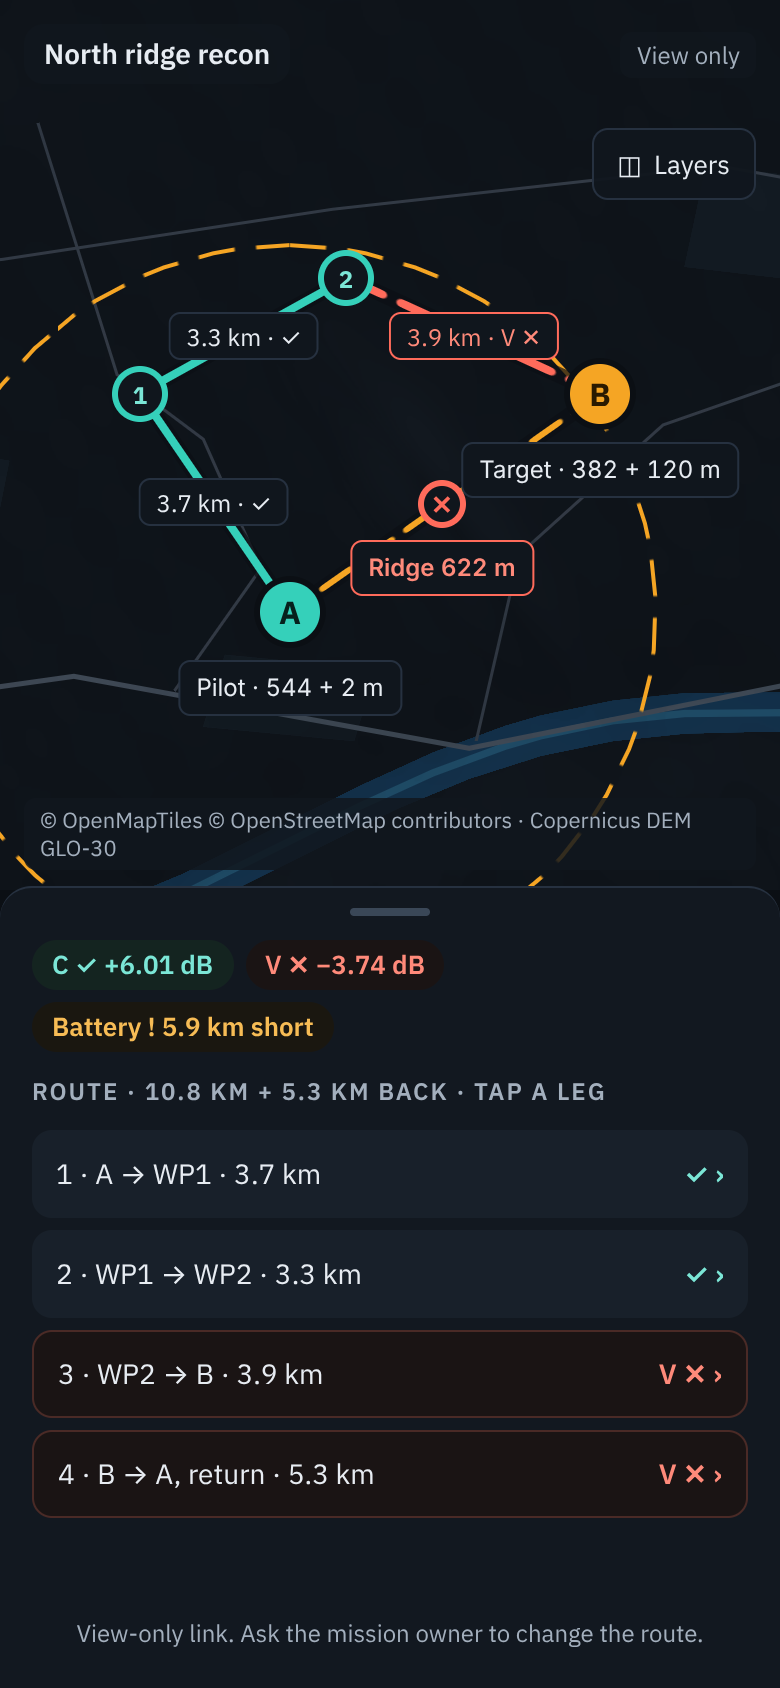
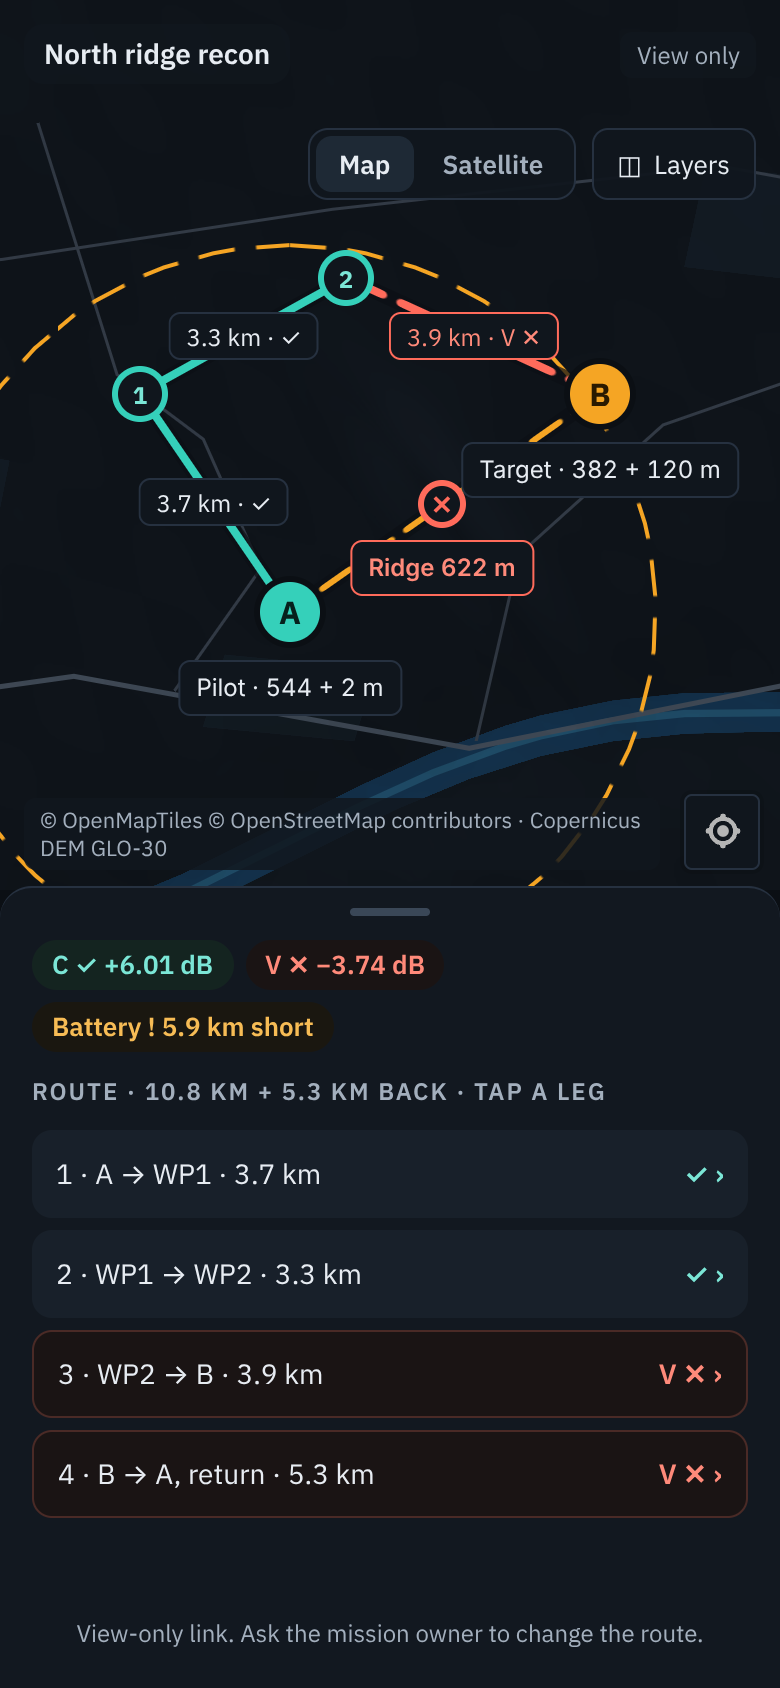
fix(web): keep map text clear of the control buttons and add Find my location (#53)
<!-- claude-projects-attribution: {"github_login":"Rufics"} -->
_Requested by **Yevhenii** · [project
thread](https://claude.ai/code/project/chan_01LHohLjDHMiGm5uYYte6Zvi?thread=cmsg_01LHohLjDHMiGm5uYYte6Zvi7hYcMQs8MJnc37MwT7ZCBF)_

Before: on a narrow map (for example an 800 px wide window, where the
map is about 420 px wide) the map attribution and the "Click the map to
add a point" hint ran under the zoom buttons in the bottom-right corner,
so text covered the buttons. There was no way to jump the map to where
the user is.

After: the attribution and the hint stop short of the button column and
wrap instead. A "Find my location" button sits above the zoom buttons;
it asks the browser for the position once, shows a location dot with the
accuracy circle, and moves the map there (zoom capped at 14). On phones
the button is shown on its own, without the zoom buttons.

How: a new `MapControls` class in the ui-kit builds the bottom-right
controls (MapLibre `NavigationControl` and `GeolocateControl`).
`rf-map-view` gets `zoomButtons` and `locateButton` inputs and exposes
`--rf-map-controls-reserve`, the width bottom-left overlays leave free.
The phone layout passes `zoomButtons=false` instead of hiding the whole
corner with a media query. The deploy guide notes that browsers offer
geolocation only over HTTPS or on localhost. `laptop-result.png` and
`phone-mission.png` are refreshed.

Checked: `npm test` (ui-kit 20 files, fpv-app 15 files, all green,
[…]

diff --git a/web/projects/ui-kit/src/lib/map/map-view.component.ts b/web/projects/ui-kit/src/lib/map/map-view.component.ts
@@ -8,15 +8,17 @@ import {
   inject,
   input,
   output,
+  untracked,
   viewChild,
 } from '@angular/core';
-import { addProtocol, Map as MlMap, NavigationControl } from 'maplibre-gl';
+import { addProtocol, Map as MlMap } from 'maplibre-gl';
 import { Protocol } from 'pmtiles';
 import { MapSourcesConfig } from '../models/api.models';
 import { LayerRegistry } from '../layers/layer-registry';
 import { SlotRegistry } from '../slots/slot-registry';
 import { LatLon } from '../tools/geo';
 import { MapContext } from './map-context';
+import { MapControls, MapControlsOptions } from './map-controls';
 
 let pmtilesRegistered = false;
 
@@ -34,6 +36,7 @@ export function ensurePmtilesProtocol(): void {
  */
 @Component({
   selector: 'rf-map-view',
+  host: { '[class.rf-map-view--controls]': 'hasControls()' },
   template: `
     <div #container class="rf-map-canvas" role="region" [attr.aria-label]="label()"></div>
     <ng-content />
@@ -42,10 +45,12 @@ export function ensurePmtilesProtocol(): void {
     }
   `,
   styles: `
-    :host { position: relative; display: block; overflow: hidden; background: var(--rf-map-land, #0E1319); }
+    :host { position: relative; display: block; overflow: hidden; background: var(--rf-map-land, #0E1319); --rf-map-controls-reserve: 12px; }
+    /* the corner buttons are 38 px wide with a 10 px margin; keep a 12 px gap to them */
+    :host(.rf-map-view--controls) { --rf-map-controls-reserve: 60px; }
     .rf-map-canvas { position: absolute; inset: 0; }
     .rf-map-attribution {
-      position: absolute; left: 12px; bottom: 10px; z-index: 2; max-width: calc(100% - 24px);
+      position: absolute; left: 12px; bottom: 10px; z-index: 2; max-width: calc(100% - 12px - var(--rf-map-controls-reserve));
       font-size: 11px; color: var(--rf-text-2); background: rgba(16, 22, 29, 0.85);
       padding: 4px 8px; border-radius: var(--rf-radius-sm); pointer-events: auto;
     }
@@ -56,6 +61,10 @@ export class MapViewComponent {
   readonly label = input('Map');
   readonly showAttribution = input(true);
   readonly interactive = input(true);
+  /** Zoom buttons in the corner (off on phones, which zoom with two fingers). */
+  readonly zoomButtons = input(true);
+  /** A "Find my location" button in the corner. */
+  readonly locateButton = input(true);
   readonly mapClick = output<LatLon>();
   readonly mapReady = output<MlMap>();
 
@@ -66,6 +75,13 @@ export class MapViewComponent {
   private readonly destroyRef = inject(DestroyRef);
   private map?: MlMap;
   private readonly slotLayerCleanups = new Map<string, () => void>();
+
+  private readonly controls = new MapControls();
+  private readonly controlOptions = computed<MapControlsOptions>(() => ({
+    zoom: this.interactive() && this.zoomButtons(),
+    locate: this.interactive() && this.locateButton(),
+  }));
+  protected readonly hasControls = computed(() => MapControls.any(this.controlOptions()));
 
   protected readonly attributionText = computed(() => {
     const parts = [...(this.config()?.attribution ?? ['© OpenStreetMap contributors', 'Copernicus DEM'])];
@@ -96,6 +112,12 @@ export class MapViewComponent {
         }
       }
     });
+    // corner buttons follow their inputs on a live map
+    effect(() => {
+      const options = this.controlOptions();
+      const map = this.map;
+      if (map) untracked(() => this.controls.apply(map, options));
+    });
     this.destroyRef.onDestroy(() => {
       this.layers.disconnect();
       this.ctx.map.set(null);
@@ -118,7 +140,7 @@ export class MapViewComponent {
       fadeDuration: 0,
     });
     map.touchZoomRotate.disableRotation();
-    if (this.interactive()) map.addControl(new NavigationControl({ showCompass: false }), 'bottom-right');
+    this.controls.apply(map, this.controlOptions());
     map.on('click', (e) => {
       const p = { lat: e.lngLat.lat, lon: e.lngLat.lng };
       this.ctx.emitClick(p);

diff --git a/web/projects/ui-kit/src/lib/map/map-controls.spec.ts b/web/projects/ui-kit/src/lib/map/map-controls.spec.ts
@@ -1,0 +1,79 @@
+import { GeolocateControl, NavigationControl } from 'maplibre-gl';
+import type { ControlPosition, IControl } from 'maplibre-gl';
+import { describe, expect, it } from 'vitest';
+import { MapControls } from './map-controls';
+
+/** Keeps the controls a map view puts in its corner, in the order MapLibre would add them. */
+class RecordingMap {
+  readonly added: { control: IControl; position?: ControlPosition }[] = [];
+  removed = 0;
+
+  addControl(control: IControl, position?: ControlPosition): this {
+    this.added.push({ control, position });
+    return this;
+  }
+
+  removeControl(control: IControl): this {
+    const i = this.added.findIndex((a) => a.control === control);
+    if (i >= 0) this.added.splice(i, 1);
+    this.removed++;
+    return this;
+  }
+
+  kinds(): string[] {
+    return this.added.map((a) => (a.control instanceof GeolocateControl ? 'locate' : 'zoom'));
+  }
+}
+
+describe('MapControls', () => {
+  it('adds the zoom buttons and the location button to the bottom-right corner', () => {
+    const map = new RecordingMap();
+    new MapControls().apply(map, { zoom: true, locate: true });
+    expect(map.added.map((a) => a.position)).toEqual(['bottom-right', 'bottom-right']);
+    expect(map.added[0].control).toBeInstanceOf(NavigationControl);
+    // added last, so MapLibre stacks it above the zoom buttons
+    expect(map.added[1].control).toBeInstanceOf(GeolocateControl);
+  });
+
+  it('leaves the zoom buttons out on phones but keeps the location button', () => {
+    const created = MapControls.create({ zoom: false, locate: true });
+    expect(created).toHaveLength(1);
+    expect(created[0]).toBeInstanceOf(GeolocateControl);
+    expect(MapControls.any({ zoom: false, locate: true })).toBe(true);
+  });
+
+  it('jumps to the user once, without following them', () => {
+    const [locate] = MapControls.create({ zoom: false, locate: true }) as GeolocateControl[];
+    expect(locate.options.trackUserLocation).toBe(false);
+    expect(locate.options.fitBoundsOptions?.maxZoom).toBe(MapControls.locateMaxZoom);
+  });
+
+  it('follows changed options on a live map and keeps the location button on top', () => {
+    const map = new RecordingMap();
+    const controls = new MapControls();
+    controls.apply(map, { zoom: false, locate: true });
+    controls.apply(map, { zoom: true, locate: true });
+    expect(map.kinds()).toEqual(['zoom', 'locate']);
+    controls.apply(map, { zoom: false, locate: true });
+    expect(map.kinds()).toEqual(['locate']);
+    controls.apply(map, { zoom: false, locate: false });
+    expect(map.kinds()).toEqual([]);
+  });
+
+  it('leaves the corner alone when the options did not change', () => {
+    const map = new RecordingMap();
+    const controls = new MapControls();
+    controls.apply(map, { zoom: true, locate: true });
+    const first = map.added.map((a) => a.control);
+    controls.apply(map, { zoom: true, locate: true });
+    expect(map.removed).toBe(0);
+    expect(map.added.map((a) => a.control)).toEqual(first);
+  });
+
+  it('reports an empty corner when no buttons are wanted', () => {
+    const map = new RecordingMap();
+    new MapControls().apply(map, { zoom: false, locate: false });
+    expect(map.added).toEqual([]);
+    expect(MapControls.any({ zoom: false, locate: false })).toBe(false);
+  });
+});

diff --git a/web/projects/ui-kit/src/lib/map/map-controls.ts b/web/projects/ui-kit/src/lib/map/map-controls.ts
@@ -1,0 +1,69 @@
+import { GeolocateControl, NavigationControl } from 'maplibre-gl';
+import type { ControlPosition, IControl } from 'maplibre-gl';
+
+/** Which of the corner buttons a map view shows. */
+export interface MapControlsOptions {
+  /** Zoom in/out buttons (phones zoom with two fingers instead). */
+  zoom: boolean;
+  /** "Find my location": asks the browser for the position once and moves the map there. */
+  locate: boolean;
+}
+
+/** The part of a MapLibre map the controls are added to and removed from. */
+export interface ControlHost {
+  addControl(control: IControl, position?: ControlPosition): unknown;
+  removeControl(control: IControl): unknown;
+}
+
+/**
+ * The buttons in the bottom-right corner of one map view. They stack upwards from the corner, so
+ * the location button sits above the zoom buttons. Bottom-left overlays (attribution, hints) keep
+ * `--rf-map-controls-reserve` free on the right to stay clear of this column.
+ */
+export class MapControls {
+  static readonly position: ControlPosition = 'bottom-right';
+  /** How close "Find my location" zooms in, so the pilot still sees the area around them. */
+  static readonly locateMaxZoom = 14;
+
+  private installed: IControl[] = [];
+  private shown: MapControlsOptions = { zoom: false, locate: false };
+
+  /** True when the options put at least one button in the corner. */
+  static any(options: MapControlsOptions): boolean {
+    return options.zoom || options.locate;
+  }
+
+  /** The controls in the order they are added; MapLibre stacks later bottom controls above. */
+  static create(options: MapControlsOptions): IControl[] {
+    const controls: IControl[] = [];
+    if (options.zoom) controls.push(new NavigationControl({ showCompass: false }));
+    if (options.locate) controls.push(MapControls.createLocate());
+    return controls;
+  }
+
+  /**
+   * Show exactly the buttons the options ask for. Changed options replace the whole column, so
+   * the location button stays above the zoom buttons whichever was turned on last.
+   */
+  apply(map: ControlHost, options: MapControlsOptions): void {
+    if (MapControls.same(options, this.shown)) return;
+    for (const control of this.installed) map.removeControl(control);
+    this.installed = MapControls.create(options);
+    for (const control of this.installed) map.addControl(control, MapControls.position);
+    this.shown = { ...options };
+  }
+
+  private static same(a: MapControlsOptions, b: MapControlsOptions): boolean {
+    return a.zoom === b.zoom && a.locate === b.locate;
+  }
+
+  private static createLocate(): GeolocateControl {
+    return new GeolocateControl({
+      positionOptions: { enableHighAccuracy: true, timeout: 15000 },
+      fitBoundsOptions: { maxZoom: MapControls.locateMaxZoom },
+      trackUserLocation: false,
+      showUserLocation: true,
+      showAccuracyCircle: true,
+    });
+  }
+}

diff --git a/web/projects/fpv-app/src/app/workspace/map-stage.component.ts b/web/projects/fpv-app/src/app/workspace/map-stage.component.ts
@@ -38,7 +38,7 @@ import { CompareService } from '../core/fpv-core';
   imports: [MapViewComponent, LayerPanelComponent, BaseSwitcherComponent, SlotHostComponent, SegmentedComponent, HeatLegendComponent],
   template: `
     @if (ws.data.mapConfig(); as cfg) {
-      <rf-map-view class="map" [config]="cfg" label="Mission map" (mapReady)="onReady($event)">
+      <rf-map-view class="map" [config]="cfg" label="Mission map" [zoomButtons]="!compact()" (mapReady)="onReady($event)">
         <div class="overlay top-right">
           <div class="map-actions">
             <rf-base-switcher />
@@ -109,7 +109,7 @@ import { CompareService } from '../core/fpv-core';
     .legend rf-segmented { width: 84px; }
     .legend ::ng-deep .rf-segmented > button { height: 26px; font-size: 12px; }
     .banner { top: 16px; left: 50%; transform: translateX(-50%); padding: 6px 14px; border-radius: 999px; background: var(--rf-video-bg); color: var(--rf-video-text); font-weight: 600; font-size: 13px; white-space: nowrap; }
-    .hint { bottom: 44px; left: 14px; padding: 8px 12px; border-radius: 8px; background: rgba(16, 22, 29, 0.95); border: 1px solid var(--rf-border); font-size: 13px; color: var(--rf-text-2); display: flex; gap: 10px; align-items: center; }
+    .hint { bottom: 52px; left: 14px; max-width: calc(100% - 14px - var(--rf-map-controls-reserve, 14px)); padding: 8px 12px; border-radius: 8px; background: rgba(16, 22, 29, 0.95); border: 1px solid var(--rf-border); font-size: 13px; color: var(--rf-text-2); display: flex; gap: 10px; align-items: center; }
     .slot { left: 14px; top: 16px; }
     .dim { position: absolute; inset: 0; background: rgba(11, 15, 20, 0.72); z-index: 4; pointer-events: none; }
     :host-context(.phone) .top-right { top: 64px; right: 12px; }

diff --git a/web/projects/ui-kit/src/public-api.ts b/web/projects/ui-kit/src/public-api.ts
@@ -18,6 +18,7 @@ export * from './lib/layers/standard-layers';
 export * from './lib/layers/layer-panel.component';
 export * from './lib/layers/base-switcher.component';
 export * from './lib/map/map-context';
+export * from './lib/map/map-controls';
 export * from './lib/map/map-view.component';
 // coverage
 export * from './lib/coverage/heat-scale';

diff --git a/web/projects/fpv-app/src/styles.css b/web/projects/fpv-app/src/styles.css
@@ -11,8 +11,3 @@ app-root {
   display: block;
   height: 100%;
 }
-
-/* Phones zoom with two fingers; the zoom buttons would sit under the bottom sheet. */
-@media (max-width: 767px) {
-  .maplibregl-ctrl-bottom-right { display: none; }
-}

diff --git a/docs/admin/deploy.md b/docs/admin/deploy.md
@@ -75,7 +75,8 @@ docker build --secret id=build_ca,src=/path/to/proxy-ca.crt -f deploy/server.Doc
 ```
 
 Put TLS in front of `web` (your reverse proxy or load balancer). Share links and the admin
-token must not travel over plain HTTP.
+token must not travel over plain HTTP. Browsers also enable the map's "Find my location" button only
+over HTTPS (or on `localhost`).
 
 ### Behind a reverse proxy
 
